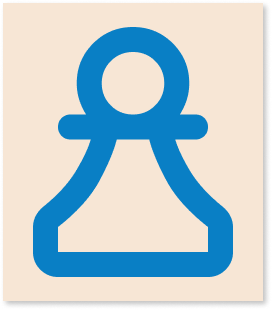
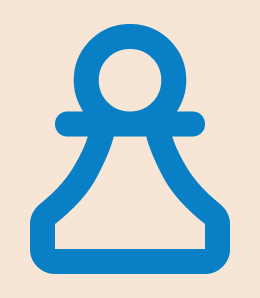
feat: Add themed winner screen for food theme

diff --git a/src/styles/pages/_winner-screen.scss b/src/styles/pages/_winner-screen.scss
@@ -15,6 +15,9 @@
     --winner-player-font-weight: 700;
     --winner-player-shadow: none;
     --winner-image-width: 140px;
+    --winner-image-height: auto;
+    --winner-image-max-height: none;
+    --winner-image-shadow: none;
     --winner-button-width: 204px;
     --winner-button-height: 62px;
     --winner-button-gap: 10px;
@@ -90,8 +93,32 @@
     }
 
     &[data-theme='foods'] {
-        --winner-screen-background: rgba(243, 131, 45, 1);
+        --winner-screen-background: #{variables.$white};
         --winner-screen-animation: end-screen-slide-from-bottom 520ms cubic-bezier(0.16, 1, 0.3, 1) both;
+        --winner-intro-color: rgba(164, 82, 18, 1);
+        --winner-intro-font-family: 'Klee One';
+        --winner-intro-font-size: 40px;
+        --winner-intro-font-weight: 400;
+        --winner-player-color: rgba(164, 82, 18, 1);
+        --winner-player-font-family: 'Klee One';
+        --winner-player-font-size: 80px;
+        --winner-player-font-weight: 600;
+        --winner-image-width: 260px;
+        --winner-image-height: 298px;
+        --winner-image-shadow: 3px 3px 6px rgba(0, 0, 0, 0.25);
+        --winner-button-width: 97px;
+        --winner-button-height: 45px;
+        --winner-button-padding: 12px 20px;
+        --winner-button-border: none;
+        --winner-button-border-radius: 10px;
+        --winner-button-background: rgba(243, 131, 45, 1);
+        --winner-button-color: #{variables.$white};
+        --winner-button-font-family: 'Klee One';
+        --winner-button-font-size: 16px;
+        --winner-button-font-weight: 700;
+        --winner-button-hover-background: rgba(247, 230, 213, 1);
+        --winner-button-hover-color: rgba(164, 82, 18, 1);
+        --winner-button-hover-shadow: 3px 3px 5px rgba(0, 0, 0, 0.2);
     }
 
     &:not([data-theme='code-vibes']) {
@@ -143,6 +170,18 @@
         --winner-player-font-size: 128px;
         --winner-player-font-weight: 800;
         --winner-player-shadow: 0 4px 4px rgba(0, 0, 0, 0.25);
+    }
+
+    &[data-theme='foods'][data-winner='draw'] {
+        --winner-intro-color: rgba(243, 131, 45, 1);
+        --winner-player-color: rgba(243, 131, 45, 1);
+        --winner-player-font-family: 'Klee One';
+        --winner-player-font-size: 128px;
+        --winner-player-font-weight: 600;
+        --winner-player-shadow: none;
+        --winner-image-width: 312px;
+        --winner-image-height: 285px;
+        --winner-image-shadow: 3px 3px 6px rgba(0, 0, 0, 0.25);
     }
 
     &[data-winner='draw']:not([data-theme='foods']) {
@@ -203,8 +242,9 @@
     &__player-image {
         display: block;
         width: var(--winner-image-width);
-        max-height: var(--winner-image-max-height, none);
-        height: auto;
+        height: var(--winner-image-height);
+        max-height: var(--winner-image-max-height);
+        box-shadow: var(--winner-image-shadow);
         object-fit: contain;
     }
 

diff --git a/src/winner-screen.ts b/src/winner-screen.ts
@@ -34,7 +34,7 @@ const winnerButtonLabels: Record<GameTheme, string> = {
     'code-vibes': 'Back to start',
     gaming: 'Home',
     'da-projects': 'Home',
-    foods: 'Back to start',
+    foods: 'HOME',
 };
 
 let showWinnerScreenTimeout: number | undefined;
